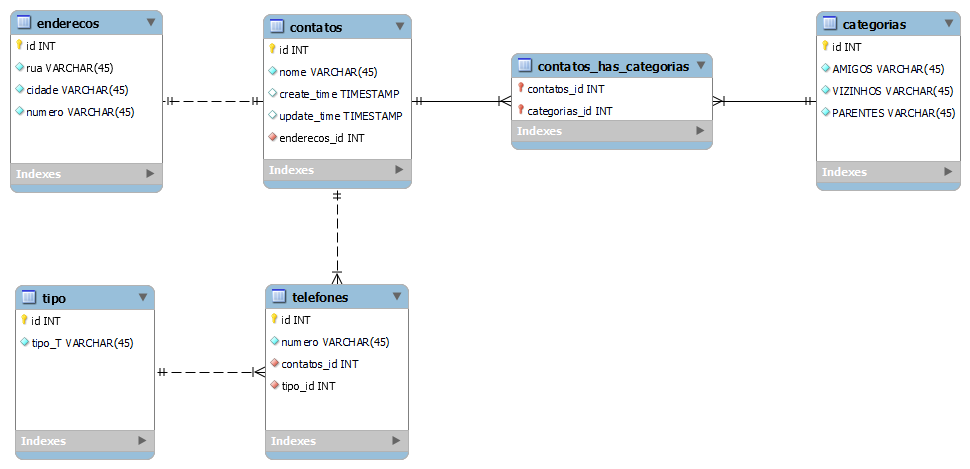
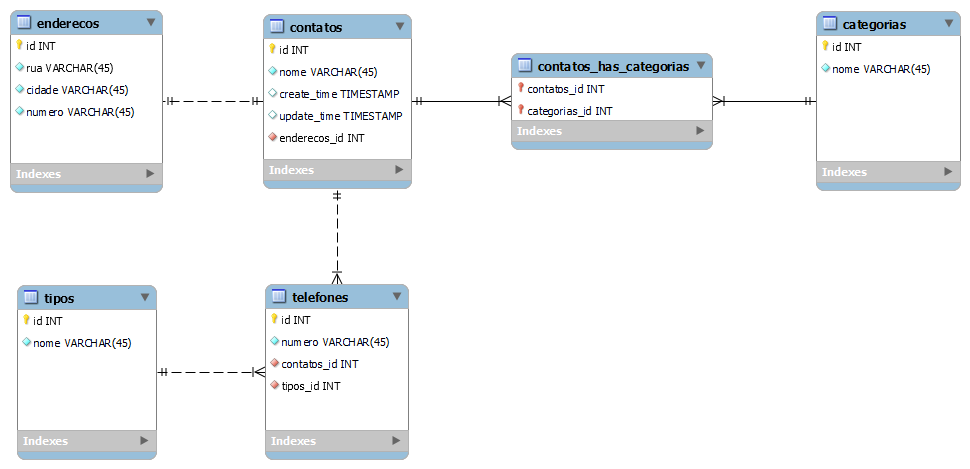
Criando migrações de tipos

diff --git a/database/migrations/2024_05_09_144947_create_tipos_table.php b/database/migrations/2024_05_09_144947_create_tipos_table.php
@@ -4,8 +4,7 @@ use Illuminate\Database\Migrations\Migration;
 use Illuminate\Database\Schema\Blueprint;
 use Illuminate\Support\Facades\Schema;
 
-return new class extends Migration
-{
+return new class extends Migration {
     /**
      * Run the migrations.
      */
@@ -13,7 +12,7 @@ return new class extends Migration
     {
         Schema::create('tipos', function (Blueprint $table) {
             $table->id();
-            $table->string('tipo');
+            $table->string('nome');
             $table->timestamps();
         });
     }

diff --git a/database/migrations/2024_05_09_144738_create_categorias_table.php b/database/migrations/2024_05_09_144738_create_categorias_table.php
@@ -13,9 +13,7 @@ return new class extends Migration
     {
         Schema::create('categorias', function (Blueprint $table) {
             $table->id();
-            $table->string('AMIGOS');
-            $table->string('VIZINHOS');
-            $table->string('PARENTES');
+            $table->string('nome');
             $table->timestamps();
         });
     }
